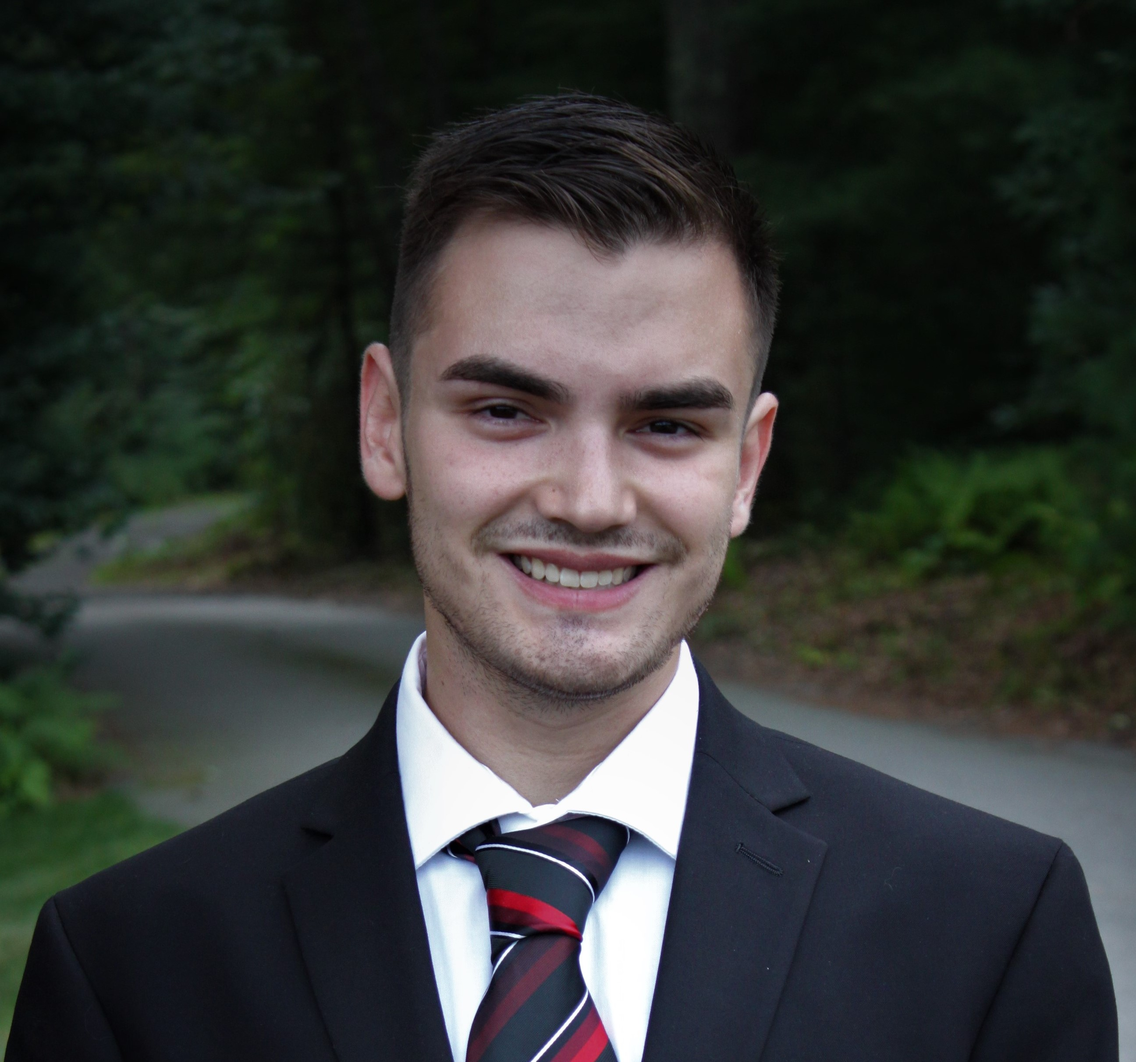
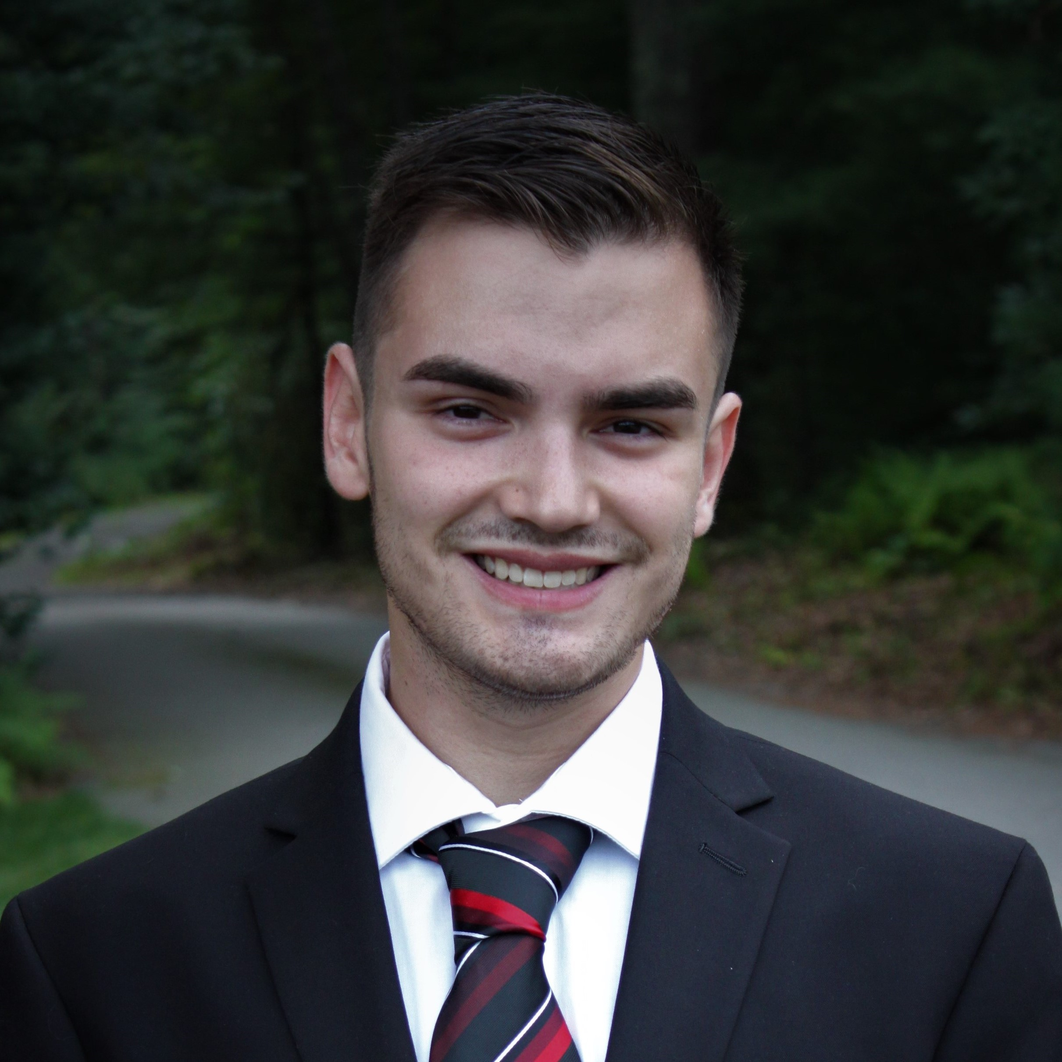
After trying to figure out how to get text onto image for a while, I took inspiration from Prof Harrison's own website.  This includes the positioning of his image as well as the neat wrapper around the body of the page, which adds padding and a cleaner look.

diff --git a/index.html b/index.html
@@ -2,34 +2,56 @@
   <head>
     <title>CS4241 Assignment 1</title>
     <style>
-    body {background-color: powderblue;}
     h1   {
           color: steelblue;
           font-family: verdana;
           font-size: 300%;
           text-align: center;
          }
-    p    {color: red;}
-    .center {
-          display: block;
-          margin-left: auto;
-          margin-right: auto;
-          width: 50%;
+    h2   {
+          color: steelblue;
+          font-family: verdana;
+          font-size: 200%;
+          text-align: center;
+         }
+    h3   {
+          color: steelblue;
+          font-family: verdana;
+          font-size: 130%;
+          text-align: center;
+         }
+
+
+    p    {color: black;}
+
+    .wrapper {
+        max-width: calc(800px - (30px * 2));
+        margin-right: auto;
+        margin-left: auto;
+        padding: 30px 70px;
+}
+
+    .profilepic {
+          float: right;
+          height: 200px;
+          margin-left: 32px;
+          margin-bottom: 16px;
+          border-radius: 50%;
+          padding: 20px;
          }
     </style>
     <meta charset="utf-8">
   </head>
   <body>
-    <h1>Information about Trevor Weiler</h1>
+  <div class="wrapper">
     <p>
-    <img src="profilepic.jpg" style="width:500px" alt="Profile Picture" class="center">
+    <img class="profilepic" src="profilepic.jpg">
     </p>
-    <p>
-      I am a member of the Class of 2020 at WPI
-    </p>
-    <p>
-      Computer Science Major / Interactive Media and Game Development Minor
-    </p>
+    <em>
+    <h1>Trevor Weiler</h1>
+    <h2>WPI Class of 2020</h2>
+    <h3>Computer Science Major / Interactive Media and Game Development Minor</h3>
+    </em>
     <h2>Experience</h2>
     <p>
       Previous Computer Science Courses I Have Taken at WPI
@@ -62,5 +84,6 @@
       <a href="https://www.facebook.com/trevor.weiler.7"><img src="facebook.png" style="width:82px; height:86px" title="Facebook Page" alt="Facebook"></a>
       <a href="https://www.instagram.com/trevor_weiler/"><img src="instagram.png" style="width:82px; height:86px" title="Instagram Page" alt="Instagram"></a>
     </p>
+ </div>
   </body>
 </html>
